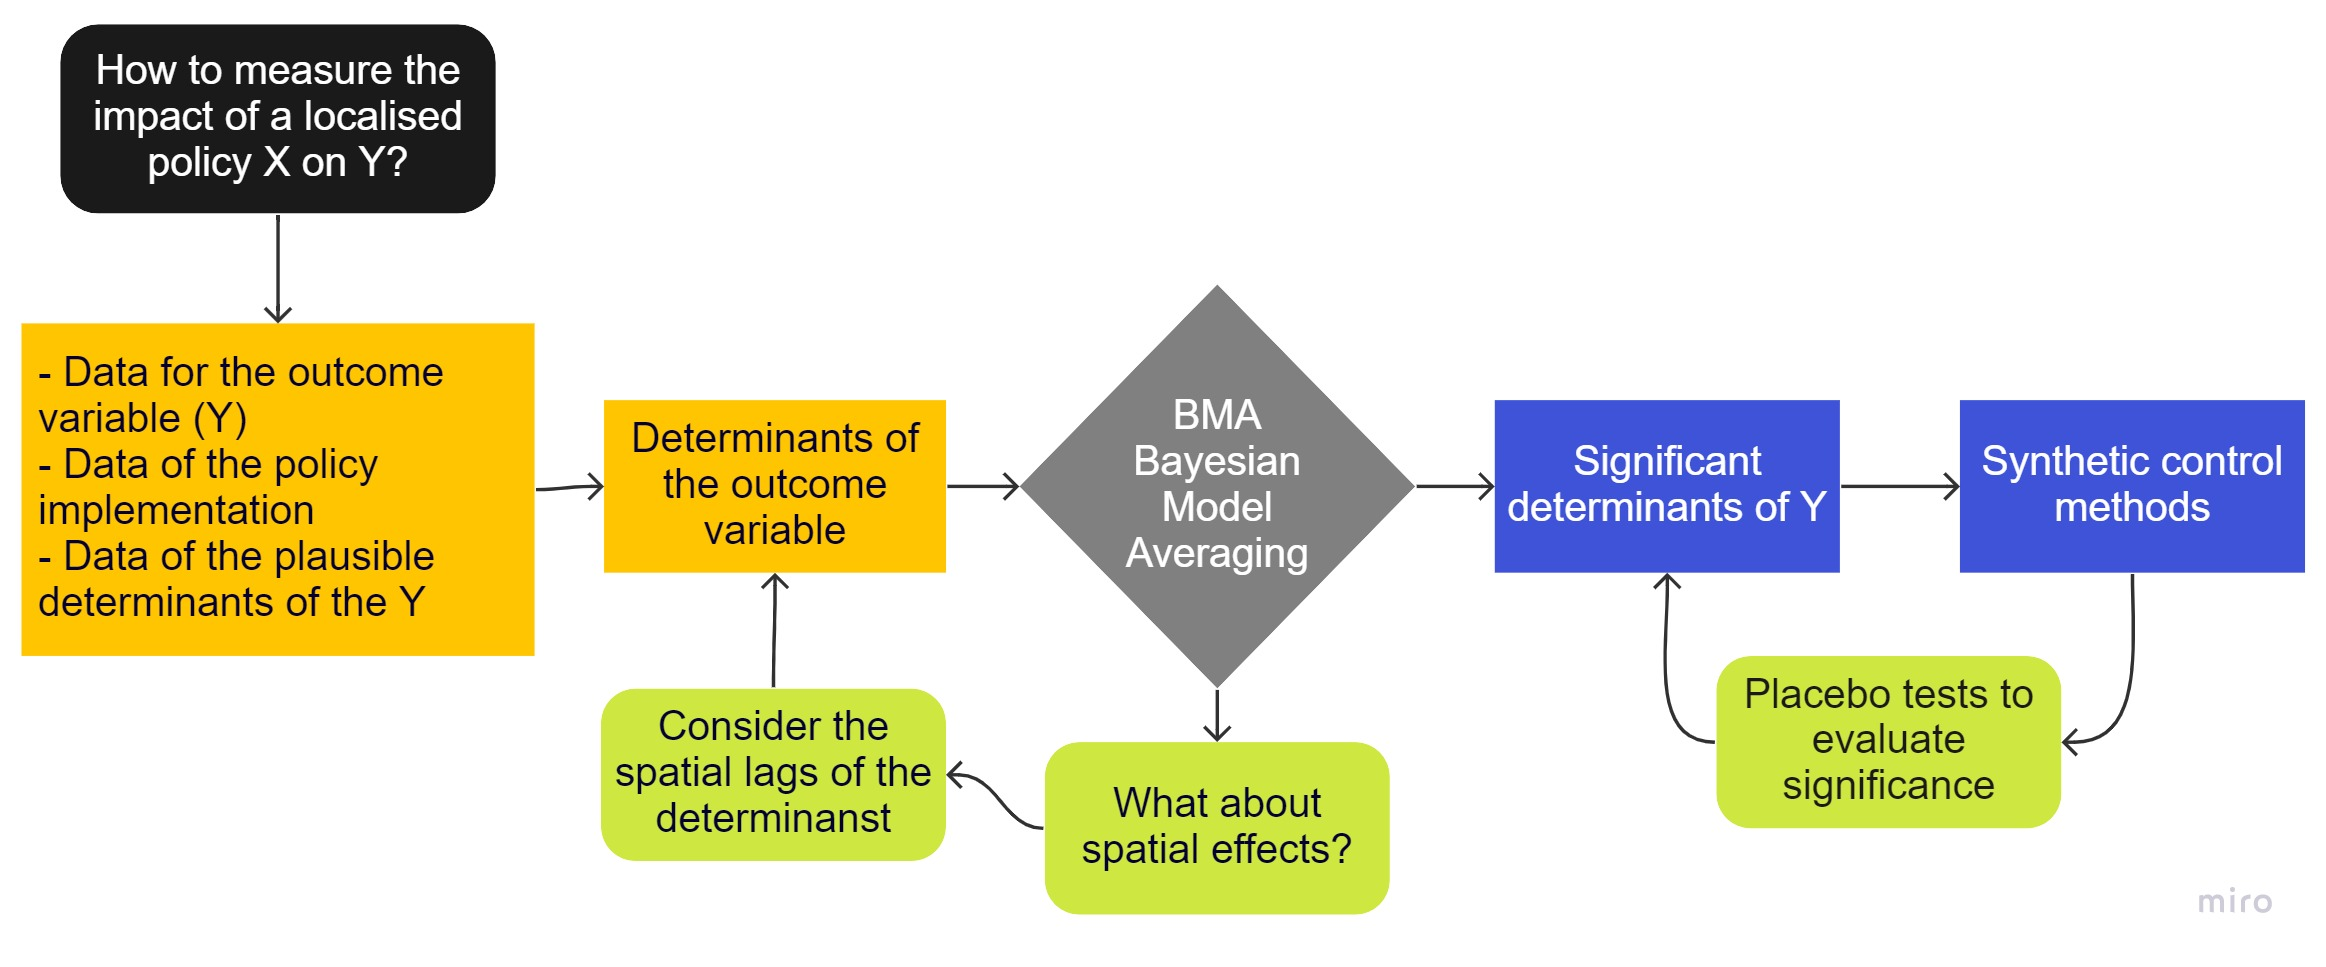
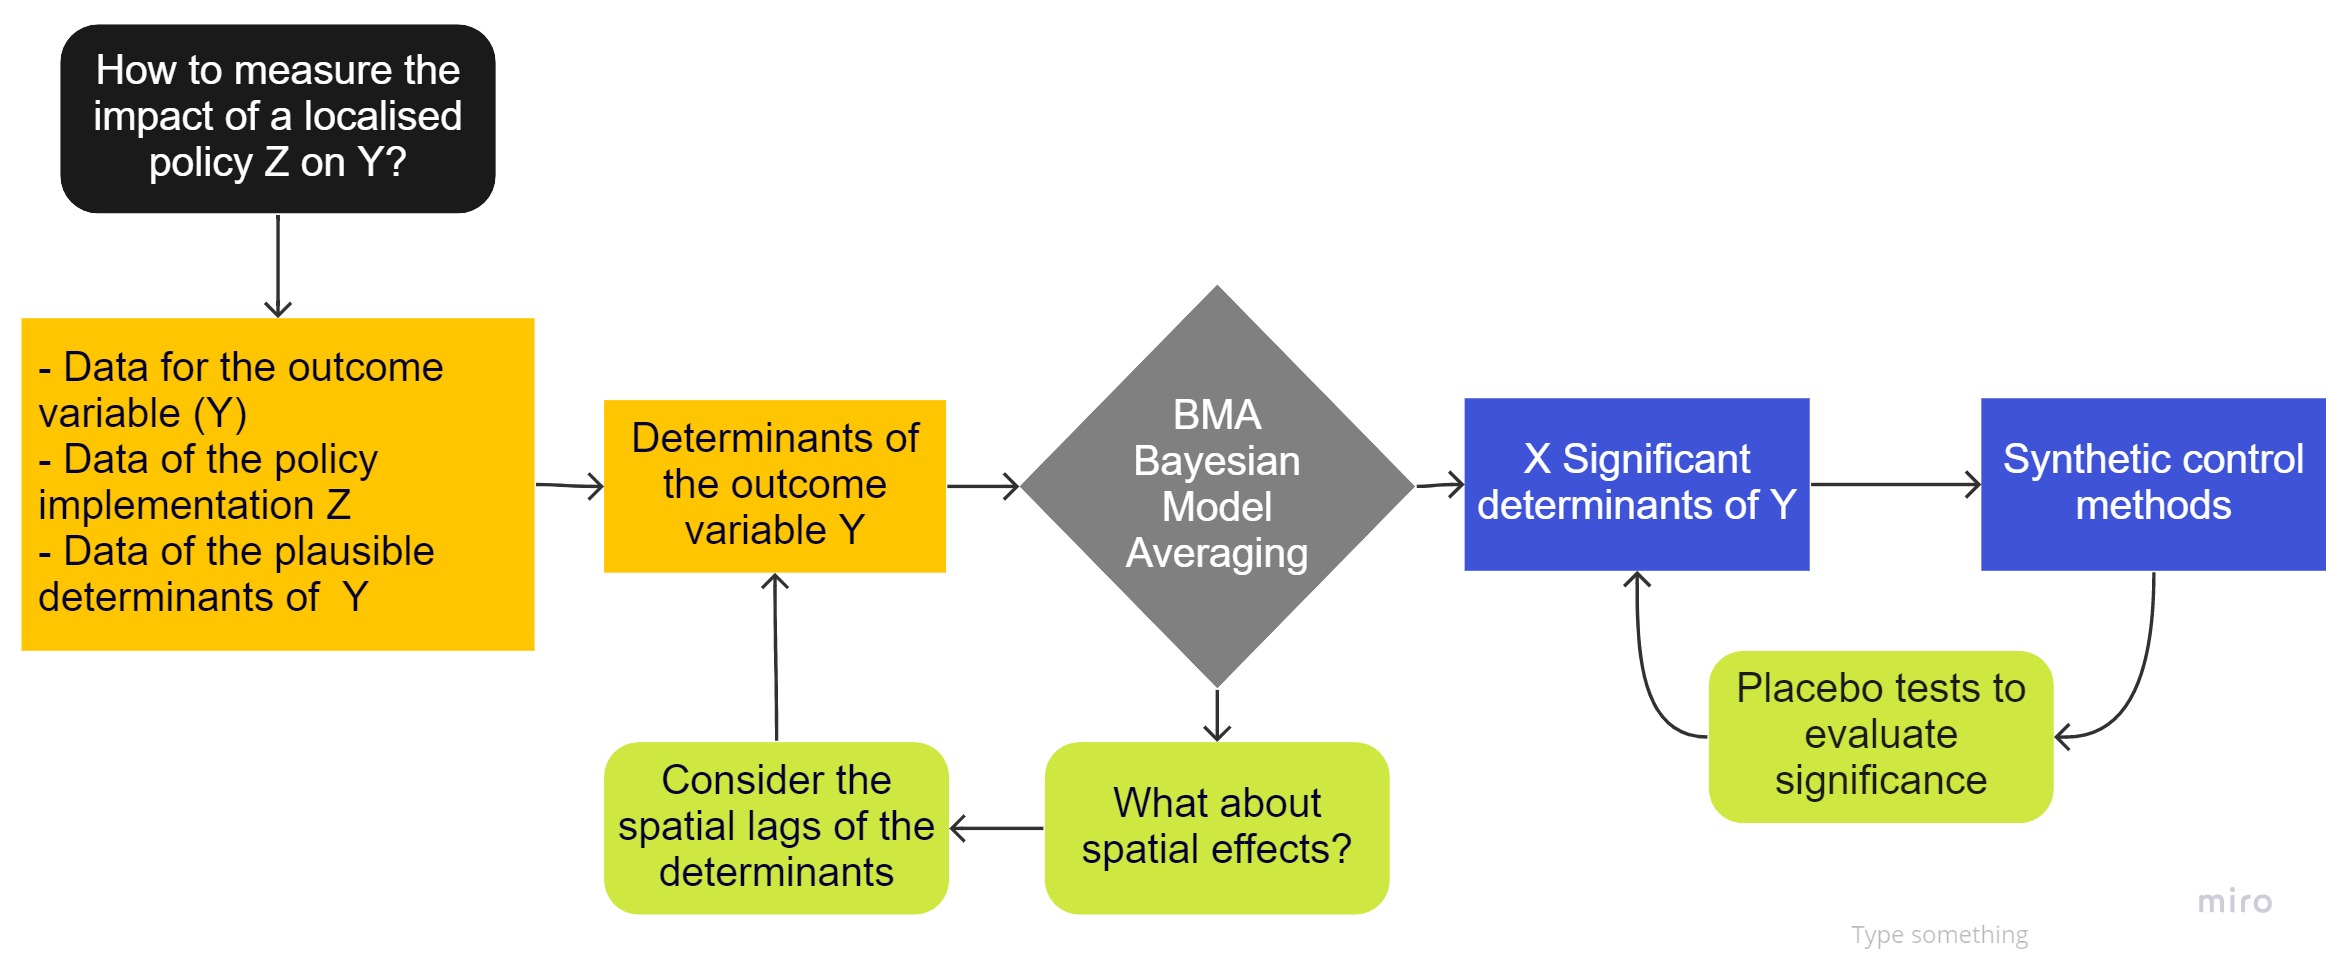
last slides

diff --git a/index.html b/index.html
@@ -125,11 +125,13 @@ class: middle
 
 ---
 class: middle, highlight-last-item
-# 1. The paper in one chart
+# 1. The paper(s) in one chart
+
+## A "data science" framework for regional policy evaluations
 &lt;img src="figs/flowchart.jpg" style="width:100%"/&gt;
 
 --
-$$BMA \rightarrow  \space determinants \space  of\space Y \rightarrow  Synethetic \space Controls \rightarrow The \space impact \space of \space  X \space on \space Y  $$
+$$BMA \rightarrow  \space determinants \space  of\space Y \rightarrow  Synethetic \space Controls \rightarrow The \space impact \space of \space  Z \space on \space Y  $$
 
 ---
 class: middle, highlight-last-item
@@ -241,12 +243,13 @@ class: center, highlight-last-item
 # 5. Synthetic control methods
 
 ## visual intuition (In terms of GDP per capita)
+2011 Fukushima Daiichi nuclear disaster 
 
 
 &lt;img src="figs/synthetic_methods.png" style="width: 55%"/&gt;
 --
 
-`$$TOKYO=0.4*OSAKA + 0.2*AICHI+0.1∗FUKUOKA+...$$`
+`$$FUKUSHIMA=0.4*OSAKA + 0.2*AICHI+0.1∗FUKUOKA+...$$`
 --
 
 ### In terms of crime
@@ -323,7 +326,7 @@ class: highlight-last-item
 
 - The framework of this paper can be considered a **data science framework to test the impact of regional policies**
 
-$$BMA \rightarrow  \space determinants \space  of\space Y \rightarrow  Synethetic \space Controls \rightarrow The \space impact \space of \space  X \space on \space Y  $$
+$$BMA \rightarrow  \space determinants \space  of\space Y \rightarrow  Synethetic \space Controls \rightarrow The \space impact \space of \space  Z \space on \space Y  $$
 
 
 
@@ -331,10 +334,6 @@ $$BMA \rightarrow  \space determinants \space  of\space Y \rightarrow  Synetheti
 class: middle, highlight-last-item
 
 ### 6.  Further research
-
-- The robustness of the result can be tested by changing the thresholds for low and high CCT coverage.  Instead of 30%  and 70%, one can use thresholds such as **20%-80% and 25%-75%**.
---
-
 
 - A dataset of determinants of crime based on previous literature (instead of the determinants found with the BMA) can be assembled.  **This new dataset can be used as the input for the synthetic control analysis.**
 --
@@ -362,7 +361,7 @@ https://github.com/jfsantosm/2021a-crime-ccts-colombia
 
 ## Do you like R and R studio?
 
-You can literally replicate these slides here 
+You can "literally" replicate these slides 
 
 https://github.com/Chair-International-Economics/BBS-slides-2021-july 
 
@@ -398,8 +397,28 @@ https://tu-dresden.de/bu/wirtschaft/vwl/iwb
 ]
 
 
+---
+
+## Some references (full list in the working paper)
+
+- Abadie, Alberto, Alexis Diamond, and Jens Hainmueller (2010). "Synthetic control methods for comparative case studies: Estimating the effect of California's tobacco control program". In: Journal of the American statistical Association 105.490, pp. 493-505.
+
+- Abadie, Alberto, Alexis Diamond, and Jens Hainmueller (2011). "Synth: An r package for synthetic control methods in comparative case studies". In: Journal of Statistical Software 42.13.
+
+- Abadie, Alberto, Alexis Diamond, and Jens Hainmueller (2015). "Comparative politics and the synthetic control method". In: American Journal of Political Science 59.2, pp. 495-510.
+
+- Abadie, Alberto and Javier Gardeazabal (2003). "The economic costs of conflict: A case study of the Basque Country". In: American economic review 93.1, pp. 113-132.
+
+- Fernández, C., Ley, E., and Steel, M. F. (2001). Model uncertainty in cross-country growth regressions. Journal of Applied Econometrics, 16(5):563–576.
+
+- Sala-I-Martin, Xavier X. (1997). I Just Ran Two Million Regressions. The American Economic Review, 87(2), 178-183. Retrieved July 7, 2021, from http://www.jstor.org/stable/2950909
 
 
+---
+
+- Sergio J. Rey, Daniel Arribas-Bel, and Levi J. Wolf. Geographic Data Science with PySAL and the PyData stack. CRC press, forthcoming.
+
+- Urrutia, M., &amp; Robles Báez, C. (2018). Las transferencias condicionadas en Colombia: una historia del programa Familias en Acción (2001-2018).
     </textarea>
 <style data-target="print-only">@media screen {.remark-slide-container{display:block;}.remark-slide-scaler{box-shadow:none;}}</style>
 <script src="https://remarkjs.com/downloads/remark-latest.min.js"></script>

diff --git a/README.md b/README.md
@@ -1,1 +1,3 @@
-# ERSA-2021-summer-school-slides
+# Brown Bag Seminar - slides July 7th 2021 TU Dresden
+
+# Felipe Santos-Marquez
